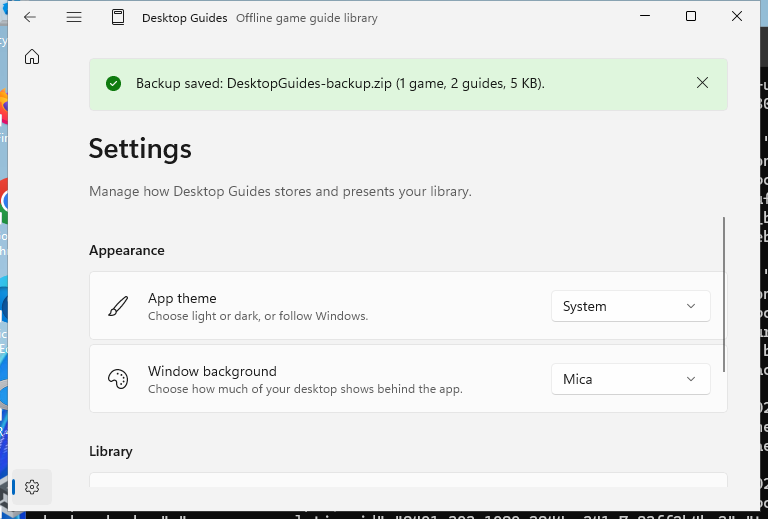
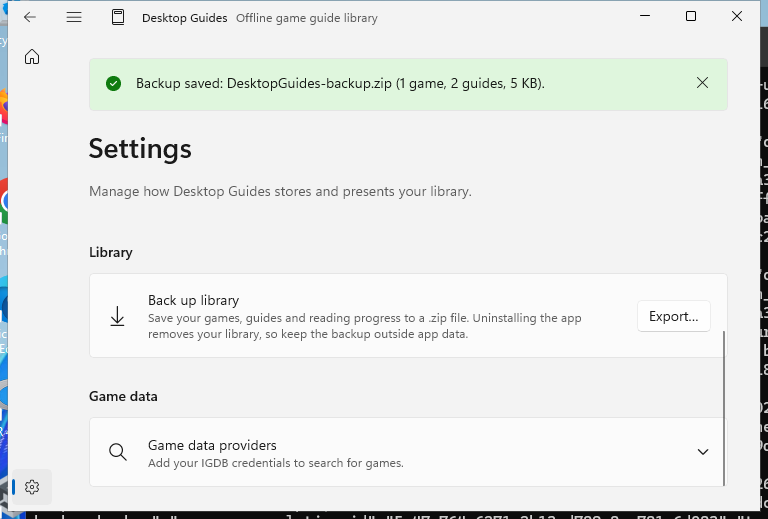
docs(p1): record the T20.2 PR a final-review runs and screenshot
The Backup saved screenshot now shows the Export card (run 38030077234).
The record names each screenshot's run and the plan links the runs.

diff --git a/docs/p1/t20-2-export-restore-design.md b/docs/p1/t20-2-export-restore-design.md
@@ -462,6 +462,17 @@ its PR. PR a's PR includes a screenshot of the Export card and the reminder.
   - `export-cancel-no-file` and `export-protected-refused`: Cancel and a
     protected folder leave no file;
   - `describe-backup`: `{"verified":true,"games":1,"guides":2,"files":3,"credentials":false}`.
+- **Final-review fixes.** The `backup` group passed again in
+  [38028956542](https://github.com/ilya-slalom/desktop-guides/actions/runs/38028956542)
+  (head `896a95d`) and
+  [38030077234](https://github.com/ilya-slalom/desktop-guides/actions/runs/38030077234)
+  (head `570e0dd`), with the same phases. The exporter is now built when
+  Export is clicked, so startup no longer resolves Roaming AppData. The
+  packaged `export-protected-refused` now saves to a fresh folder under
+  `%LOCALAPPDATA%`, outside `Packages` and the portable `DesktopGuides`
+  folder (T20.1 already refused the app's own data folder); the portable
+  run keeps the app data path. `export-saved` scrolls Settings to its end
+  so the shot shows the Export card.
 - **Full run.** [38025953925](https://github.com/ilya-slalom/desktop-guides/actions/runs/38025953925)
   (`shell-scope=all`, head `1c9c342`) passed every job; the design shard ran
   `design, catalog, completion, backup`, and `design-light` and
@@ -493,8 +504,10 @@ its PR. PR a's PR includes a screenshot of the Export card and the reminder.
   - `export-reminder-once` is a 3 s polling watch, not the plan's
     pattern-match check, which could pass without reading the UI.
 - **Evidence.**
-  - [Reminder](evidence/t20-2-export-restore/export-reminder.png)
-  - [Backup saved](evidence/t20-2-export-restore/export-saved.png)
+  - [Reminder](evidence/t20-2-export-restore/export-reminder.png), from
+    run 38027063797.
+  - [Backup saved](evidence/t20-2-export-restore/export-saved.png), with the
+    Export card, from run 38030077234.
 - **Not run.** The reminder check has only been seen passing, never failing
   on a build that shows the reminder twice. `export-cancel` and
   `export-protected` don't record whether the picker created the empty

diff --git a/docs/p1/implementation-plan.md b/docs/p1/implementation-plan.md
@@ -992,8 +992,12 @@ A missing WebView2 Runtime is reported once at startup with
 passed the installed runtime-missing run.
 T20.2 is in progress. PR a adds Settings export to a `.zip` outside app data
 (refusing the app's own data folders), with progress and Cancel, and a
-one-time reminder after the first import to export a backup. CI run
-38027063797 passed the installed `backup` group; see the
+one-time reminder after the first import to export a backup. CI runs
+[38027063797](https://github.com/ilya-slalom/desktop-guides/actions/runs/38027063797),
+[38028956542](https://github.com/ilya-slalom/desktop-guides/actions/runs/38028956542)
+and
+[38030077234](https://github.com/ilya-slalom/desktop-guides/actions/runs/38030077234)
+passed the installed `backup` group; see the
 [verification record](t20-2-export-restore-design.md#t202-verification-record).
 Restore follows in PRs b and c.
 
